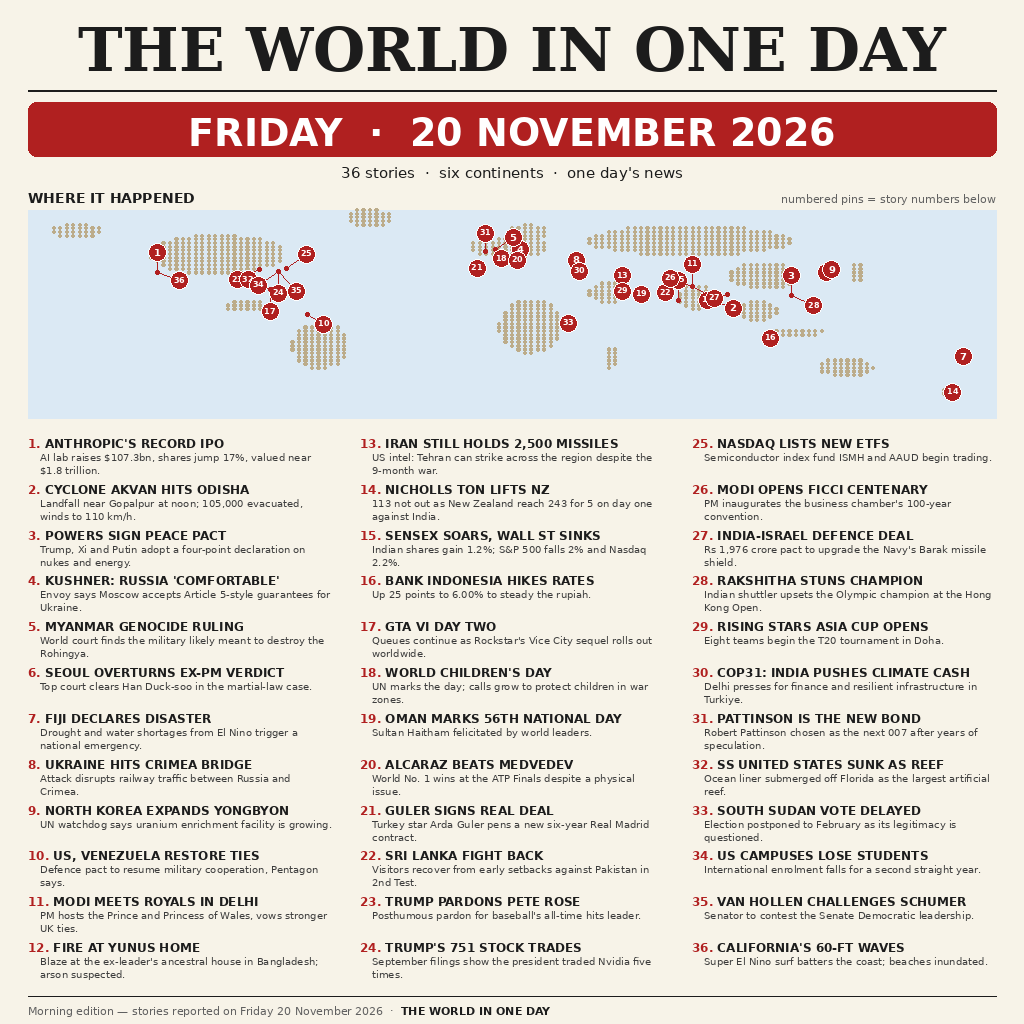
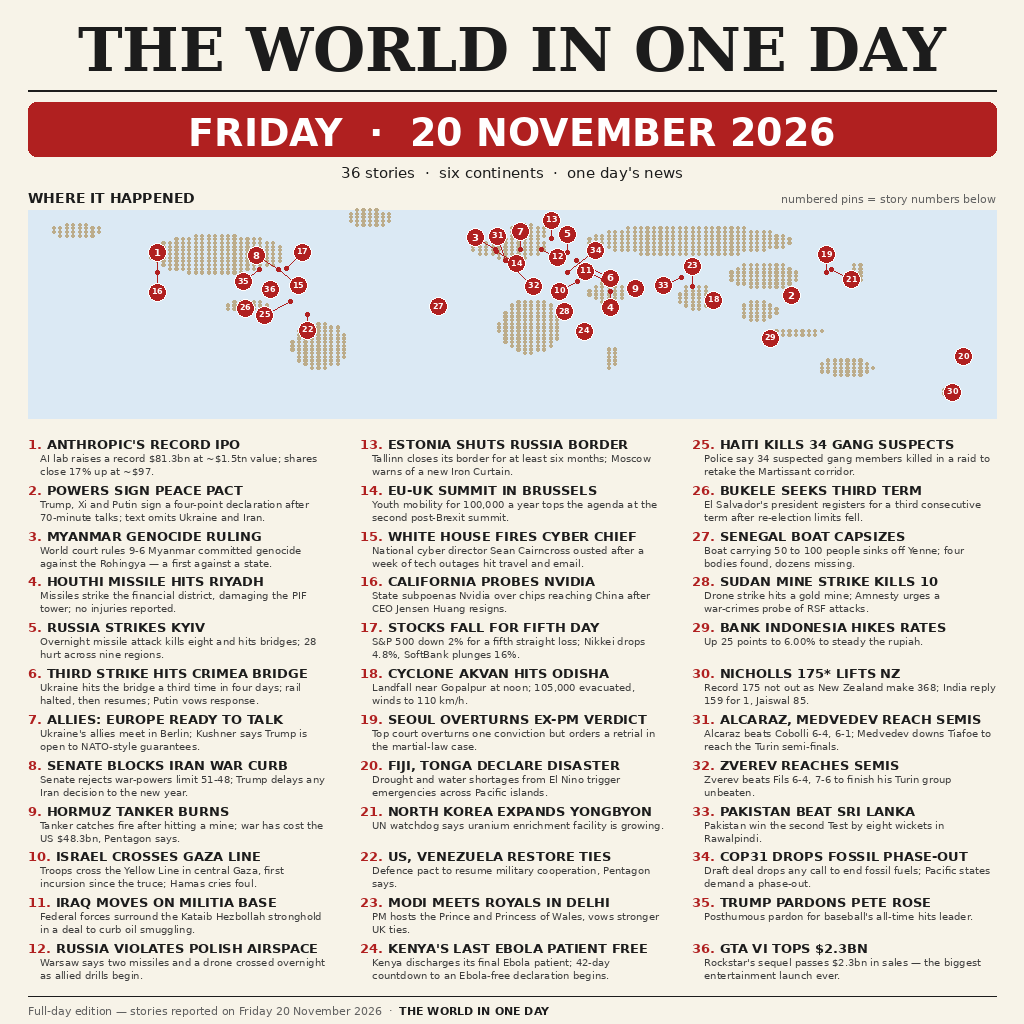
Full-day edition: 36 stories from the whole of 20 Nov 2026
Rebuild with the full day's news: Anthropic's record $81.3bn IPO,
Shenzhen peace declaration, ICJ Myanmar genocide ruling, Houthi
strike on Riyadh, Russia's overnight strike on Kyiv. Fixes pin
collisions in the Europe/Middle East cluster (6/11/34, 14/32, 7/31)
and the US cluster (25/36). Entry rendered at 13/10pt.

diff --git a/main.py b/main.py
@@ -1,10 +1,11 @@
 #!/usr/bin/env python3
-"""Front-page summary image for Friday 20 November 2026.
+"""Front-page summary image for Friday 20 November 2026 (full-day edition).
 
-Copies the bundled entry.png (36 numbered world-news stories plus a
-dotted world map with numbered pins) to /output/entry.png. The copy is
-checked before it is written: the PNG signature, the 1 MiB size limit,
-and a byte-for-byte comparison of what was written against the bundle.
+Copies the bundled entry.png — 36 numbered world-news stories from the
+full day of 20 November 2026, plus a dotted world map with a numbered
+pin for each story — to /output/entry.png. The copy is checked before
+it is written: the PNG signature, the 1 MiB size limit, and a
+byte-for-byte comparison of what was written against the bundle.
 Deterministic: both runs write exactly the same bytes.
 
 The bundled image was rendered from 36 researched stories of the day

diff --git a/README.md b/README.md
@@ -13,14 +13,14 @@ the image alone.
 
 ## The stories
 
-The morning edition, researched on 20 November 2026 from AP,
-USA Today, the Washington Examiner, The Hindu BusinessLine, the India
-Meteorological Department and other wire round-ups — only events that
-happened, or were first reported, on 20 November 2026. Leading
-stories: Anthropic's record $107.3bn IPO, Cyclone Akvan's landfall in
-Odisha, the Trump–Xi–Putin four-point peace declaration, the ICJ's
-Myanmar genocide ruling, and the South Korea top court's acquittal of
-ex-PM Han Duck-soo.
+The full-day edition, researched across 20 November 2026 from the
+One Turn day page, Just Security Early Edition, AP, BBC and The Hindu
+reporting via those digests, ATP Tour results and the Jagran Josh
+21 November round-up — only events that happened, or were first
+reported, on 20 November 2026. Leading stories: Anthropic's record
+$81.3bn IPO, the Shenzhen peace declaration signed by Trump, Xi and
+Putin, the ICJ's Myanmar genocide ruling, the Houthi strike on Riyadh
+and Russia's overnight strike on Kyiv.
 
 ## The program
 
